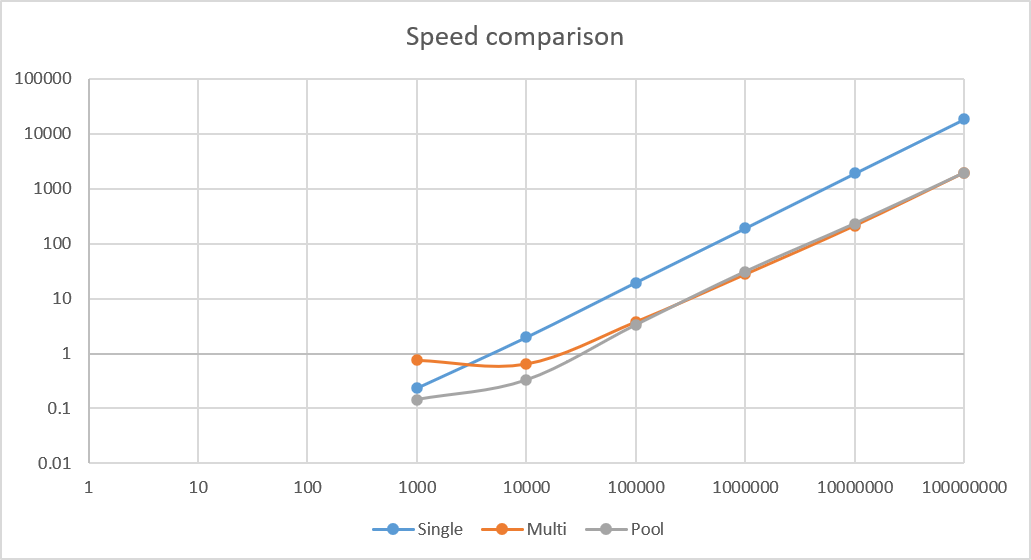
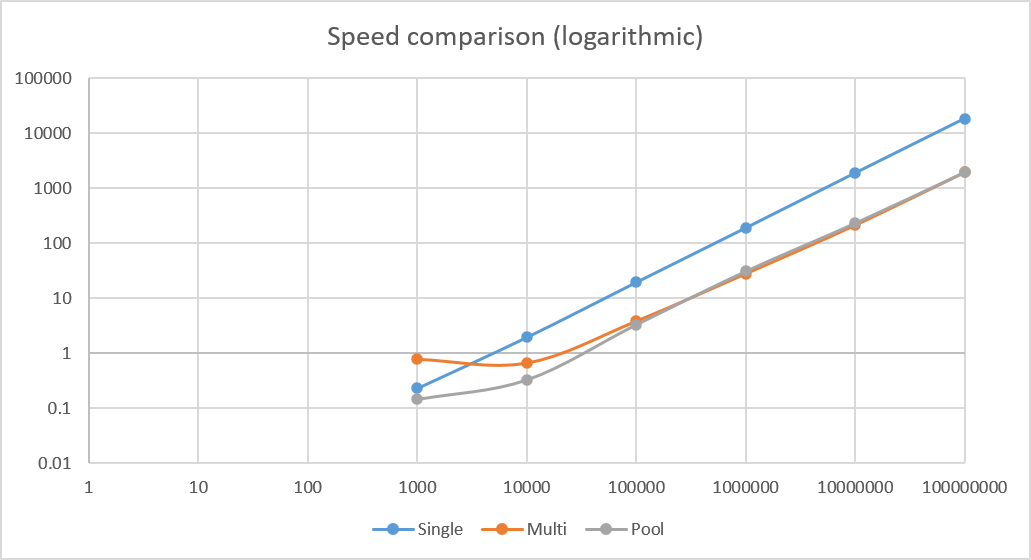
edit to graph

diff --git a/README.md b/README.md
@@ -24,6 +24,7 @@ of using a threadpool. All values calculated were compared to values calculated 
 | 10000   | 30106.33 | 24838.33 | 21473.33 |
 
 Time taken(ms) for different numbers of simulations:
+
 ![Benchmark results for differnt numbers of simulations](image.png)
 ![Benchmark results for different numbers of options (10000 sims)](image-1.png)
 
@@ -32,4 +33,3 @@ All times are in milliseconds
 Compilation line (windows):
  g++ -Wall -o Monte-Carlo-option-pricer main.cpp Thread-Pool.cpp
 .\Monte-Carlo-option-pricer.exe
-